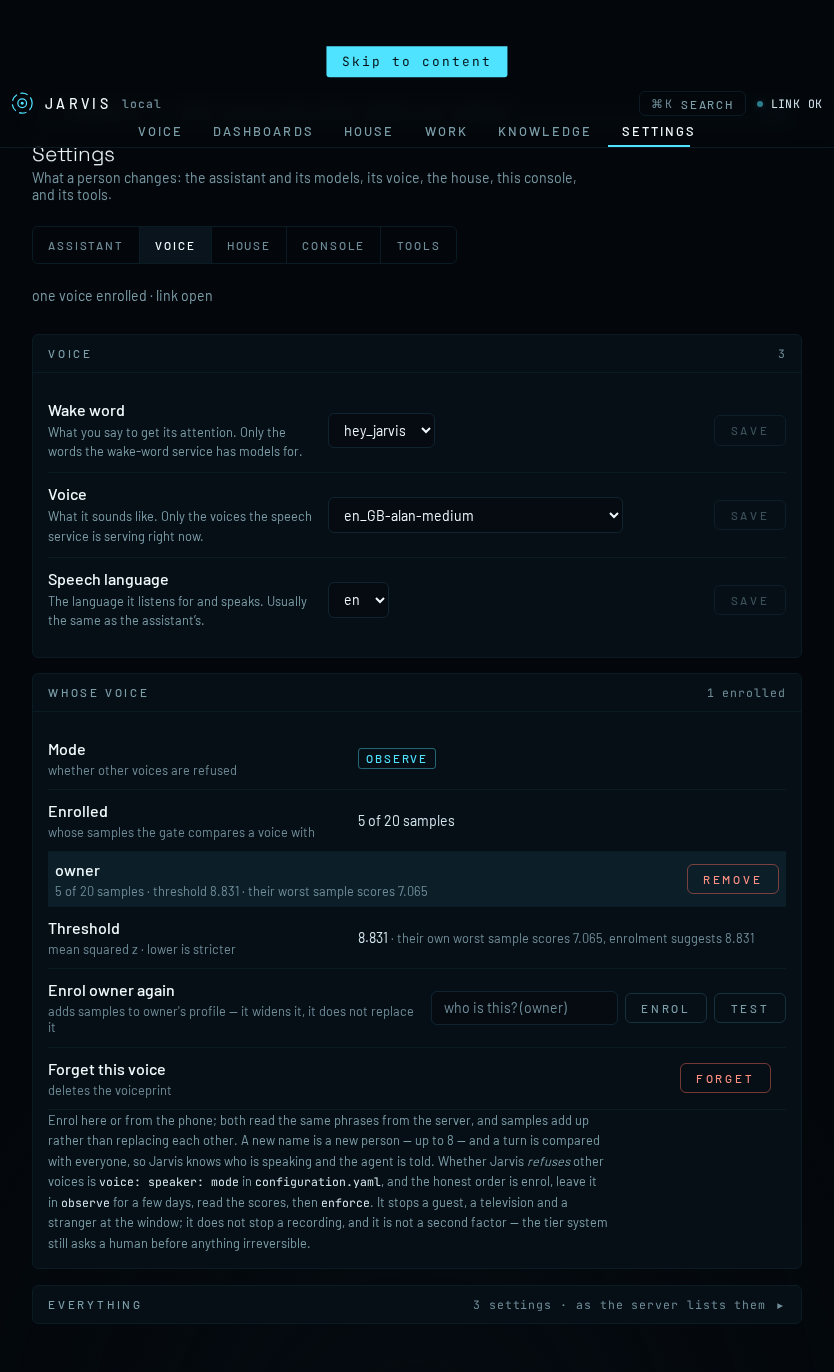
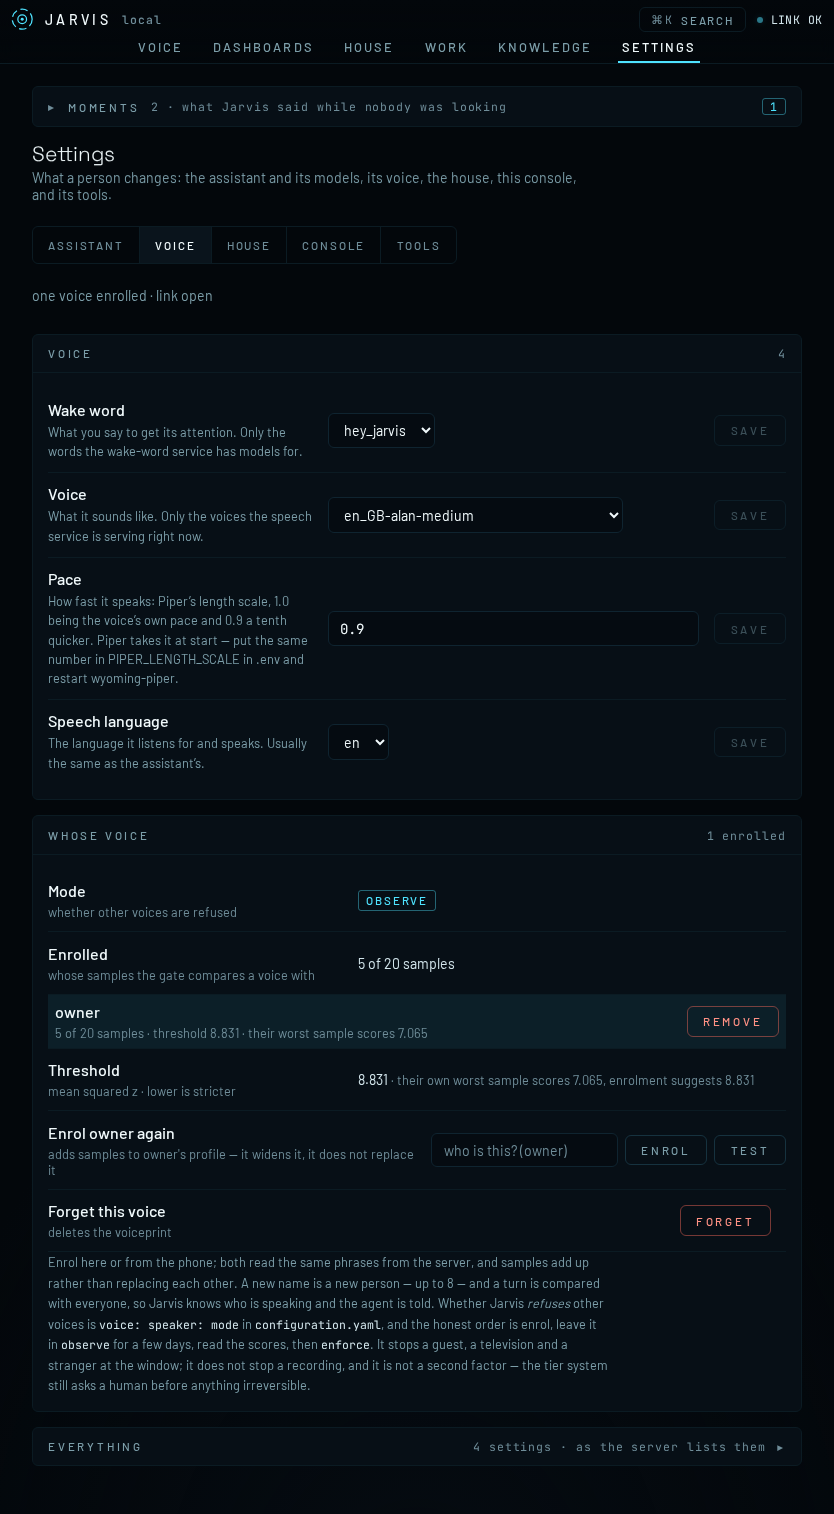
Tick M71: enrolment complete, verified on the branch
The agent's four commits (1d537e1, 4f82d6c, 50b81f6, 3454f77) cherry-picked
and re-verified here: gate m71-enrolment 37/37 — the audit table with no
Missing row, the speaker-verdict contract held to its three readers,
gradle assemble, unit tests (227), lint and Roborazzi on this host —
speaker-gate + voice suites 143, the Android mirrors 6/6, vitest 769. The
Settings › Voice pictures are the gate's re-render on the branch.

CLAUDE.md said the Kotlin cannot be built here; it can — JDK, SDK and
gradle live under $HOME and the M61/M64/M71 gates run them — so the line
now says how, and the one rule that matters beside a pytest run.

Claude-Session: https://claude.ai/code/session_01TDhsGsJdqcogAKwh7oEyRH

diff --git a/docs/OVERHAUL_PLAN.md b/docs/OVERHAUL_PLAN.md
@@ -90,7 +90,7 @@ Dependencies first, value and risk next. Parallel where trees do not touch.
 | M68 | **Search that works** — the configured SearXNG times out on every engine; try it, then the local default; say which engines answered. Done 26 Aug 20:57. | `m68-search.sh` | M31 |
 | M69 | **The house is editable by voice** — `remove_entities` / `remove_device` under approval, sayable. | `m69-editable-house.sh` | M66 |
 | M70 | **A faster voice** — Piper's length scale and Kokoro's speed as `voice: tts: speed:`, the deployed house at 1.1×. Done 26 Aug 22:04. | `m70-voice-speed.sh` | M35 |
-| M71 | **Enrolment, complete** — the audit of voice enrolment end to end, every gap closed. | `m71-enrolment.sh` | M35 |
+| M71 | **Enrolment, complete** — the audit of voice enrolment end to end, every gap closed. Done 26 Aug 22:14. | `m71-enrolment.sh` | M35 |
 | M72 | **A coding job can create a repository** — the `/workspace` crossover mounted, writable, named. Done 26 Aug 20:31. | `m72-workspace.sh` | M19 |
 | M23 | **Final integration** — every box, `make verify-all`, the suite in full mode, docs re-measured. Deps extended to M72. | `m23-final-integration.sh` | — |
 | M65 | **Something to browse** — the operator's "no way to browse" the tools and MCP servers from Settings. The catalogue had no source by default (M47) and its button was inside a fold. One source ships by code: `bundled`, the package's own four skills as `file://` from wherever the package is — not a URL, so M47's rule holds as written (`DEVIATIONS.md` §21); `installed` on every browse entry; the source's error reported. The Catalogue section is first on the tools page, above the folds, filtered by the one search, one control per row through the existing two-step install, and one MCP line whose control opens the add-by-URL form; stdio stays in `configuration.yaml`. | `m65-catalogue.sh`: the index against each SKILL.md, the source wiring, browse on a fresh Jarvis, the placement read off the Svelte, the mock's `installed`, the inventory, e2e, pictures | M47, M55 |

diff --git a/MILESTONES.md b/MILESTONES.md
@@ -1119,12 +1119,20 @@ web and of Tasker. Local only. Each row here is planned in that document.
     the mock backend and a Playwright check; settings suites 33. Gate 14/14 on the running house:
     Piper started at 0.9, the voice smoke 5/5 (6/6 turns) with WER 0.0 over 3 spoken samples,
     median 2.79 s. Kokoro's `speed:` stays the per-request knob it was.
-- [ ] **M71 — Enrolment, complete** · size M · deps M35 · parallel-ok M66
+- [x] **M71 — Enrolment, complete** · size M · deps M35 · parallel-ok M66
   - Scope: "make sure enrolment is completely implemented and complete" — an audit of voice
     enrolment end to end (the console's EnrolVoice, the phone's flow, the server's speaker
     store and verification, re-enrolment, removal, what the rig can prove) with every gap
     closed and the unprovable ones named in `docs/ANDROID_DEVICE_TESTS.md`.
   - Verify: `bash scripts/verify/m71-enrolment.sh`
+  - 26 Aug 22:14: built by an agent in a worktree (killed once at 20:37, respawned on the same
+    worktree), its four commits cherry-picked (1d537e1, 4f82d6c, 50b81f6, 3454f77) and verified on
+    the branch — gate 37/37 (the audit table with no Missing row, the contract's three readers,
+    gradle assemble/unit/lint/Roborazzi on this host), speaker-gate + voice 143, Android mirrors
+    6/6, vitest 769. Enrolment is by name for up to eight people, on the console and the phone;
+    a stranger is refused and drawn as one; no tool, command or service can enrol (DEVIATIONS
+    §22). What only a phone or a person can prove is ADT-021/052/053/054; the live rig's one
+    synthetic voice cannot show separation, and that boundary is written down rather than crossed.
 - [x] **M72 — A coding job can create a repository** · size S · deps M19 · parallel-ok M66
   - Scope: "Could not create the workspace /jarvis/workspaces: Permission denied": in the image
     `~/jarvis/workspaces` is `/jarvis/workspaces`, which nothing may write. The core mounts the

diff --git a/CLAUDE.md b/CLAUDE.md
@@ -28,7 +28,7 @@ Local Python is 3.11; CI runs 3.12. The web console needs `cd jarvis-web && npm 
 
 - `make test` — the offline gate: ruff + every Python suite + both evals. `make help` lists the rest.
 - `make test-web` — build, `svelte-check`, vitest, smoke, Playwright. It swallows Playwright failures (`|| echo`); CI does not.
-- `make test-android` — runs `android-app/tools/*.py`, the executable spec of the Kotlin. The Kotlin itself needs the Android SDK and cannot be built here.
+- `make test-android` — runs `android-app/tools/*.py`, the executable spec of the Kotlin. The Kotlin itself builds here too: `export JAVA_HOME=$HOME/.local/jdk ANDROID_HOME=$HOME/Android/Sdk PATH=$HOME/.local/jdk/bin:$HOME/.local/gradle/bin:$PATH`, then from `android-app/` `gradle :app:assembleDebug :app:testDebugUnitTest --no-daemon -q` (1–3 min a task, 3 GB heap — one gradle at a time beside a pytest run, and in the background with a log; the M61/M64/M71 gates do this). A changed golden is re-recorded with `:app:recordRoborazziDebug` and committed under `android-app/app/src/test/screenshots/`.
 - One suite, with CI's flags: `cd jarvis-core && python3 -m pytest tests -q --timeout=120 --timeout-method=signal` (two voice tests hang forever on 3.12 without `--timeout`). One test: add `-k name`.
 - `/gate` runs all of the above the way CI does; `/claims` reconciles `docs/verification.md` afterwards; `/pr` opens the pull request.
 - Stack: `make up` / `make down`. Two compose files — `jarvis-core/docker-compose.yml` first, then the root one. Orchestrator + sandbox are behind `--profile agents` on purpose (a command broker must not start by default); SearXNG is `--profile search`, MQTT `--profile mqtt`. This checkout is a dev box: restarting containers is fine.
